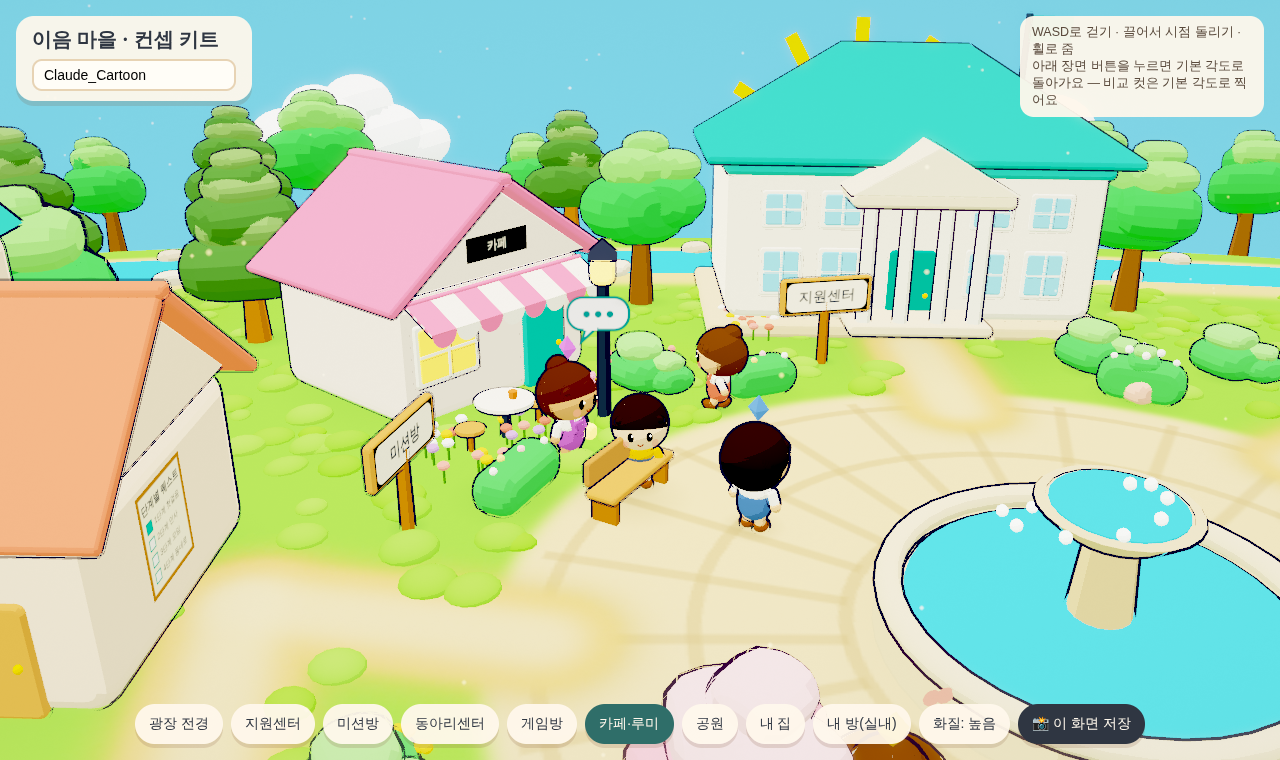
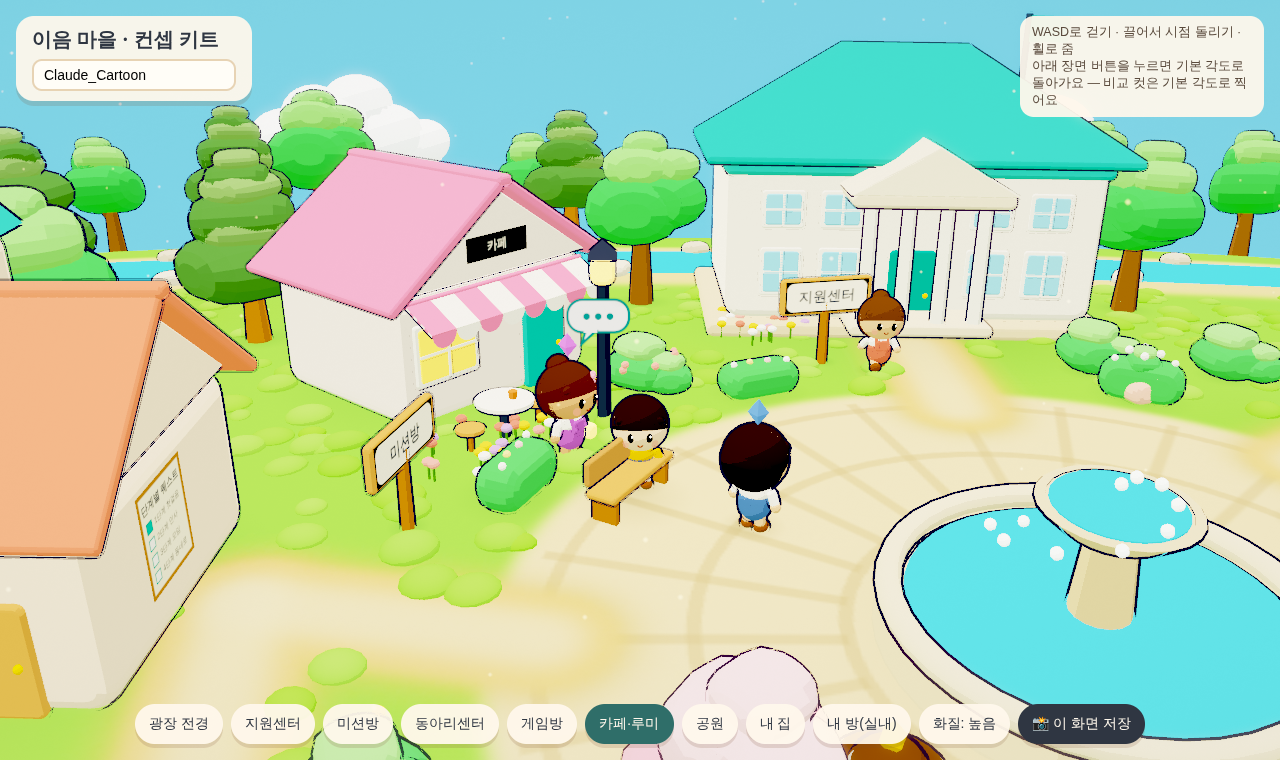
0930: concept_kit/cartoon 버젼 업데이트

diff --git a/social_world/concept_kit/candidates/claude_cartoon/concept_claude_cartoon.html b/social_world/concept_kit/candidates/claude_cartoon/concept_claude_cartoon.html
@@ -540,7 +540,8 @@ var DEMO_AVATAR = { hair: 'short', hairColor: '#3B2A20', outfit: '#E9B44C', acc:
         for (let i = 0; i < 12; i++) { const a = i / 12 * Math.PI * 2, r = new THREE.Mesh(new THREE.PlaneGeometry(1.8, 4.2), sunM); r.position.set(Math.cos(a) * 17, Math.sin(a) * 17, -0.2); r.rotation.z = a - Math.PI / 2; sunDisc.add(r); }
         // 기본 시점에서 보이는 하늘 띠(지평선 아래 약 11~17°) 안에 해와 구름을 둔다
         const az = Math.atan2(0.2, -1), R = 230, skyY = (r, deg) => 11.3 - (r + 20.6) * Math.tan(deg * Math.PI / 180);
-        sunDisc.position.set(Math.sin(az) * R, skyY(R, 12.8), Math.cos(az) * R); sunDisc.scale.setScalar(1.55);
+        // 해: 시점을 땅 가까이 낮췄을 때 지평선 위 약 4~5° 하늘에 보이는 높이
+        sunDisc.position.set(Math.sin(az) * R, 24, Math.cos(az) * R); sunDisc.scale.setScalar(1.1);
         sunDisc.renderOrder = -1; skyDeco.add(sunDisc);
         cloudRing = new THREE.Group(); skyDeco.add(cloudRing);
         const cloudM = new THREE.MeshToonMaterial({ color: '#FFFFFF', gradientMap: TOON, emissive: '#DCEBFF', emissiveIntensity: 0.45, fog: false });
@@ -551,6 +552,14 @@ var DEMO_AVATAR = { hair: 'short', hairColor: '#3B2A20', outfit: '#E9B44C', acc:
             const m = new THREE.Mesh(puff, cloudM); m.position.set(x, y, z); m.scale.set(r, r * 0.85, r); c.add(m); });
           const base = new THREE.Mesh(new THREE.CylinderGeometry(2.5, 2.5, 0.5, 24), cloudM); base.scale.set(1.1, 1, 0.45); base.position.y = -0.7; c.add(base);
           c.scale.setScalar(s); c.position.set(Math.sin(a) * R2, skyY(R2, el2), Math.cos(a) * R2);
+          c.lookAt(0, c.position.y, 0); cloudRing.add(c);
+        }
+        // 시점을 낮췄을 때 지평선 위로 보이는 높은 구름
+        for (let i = 0; i < 9; i++) {
+          const c = new THREE.Group(), a = i / 9 * Math.PI * 2 + 0.35 + (rnd() - 0.5) * 0.3, R3 = 190 + rnd() * 40, s = 6 + rnd() * 3;
+          [[0, 0, 0, 1.3], [1.3, -0.2, 0.2, 1.0], [-1.3, -0.25, -0.1, 1.0], [0.6, 0.6, 0, 0.95], [-0.5, 0.5, 0.2, 0.85], [2.3, -0.45, 0, 0.7], [-2.2, -0.45, 0, 0.7]].forEach(([x, y, z, r]) => {
+            const m = new THREE.Mesh(puff, cloudM); m.position.set(x, y, z); m.scale.set(r, r * 0.85, r); c.add(m); });
+          c.scale.setScalar(s); c.position.set(Math.sin(a) * R3, 4.7 + (R3 + 23) * Math.tan((1.5 + rnd() * 6) * Math.PI / 180), Math.cos(a) * R3);
           c.lookAt(0, c.position.y, 0); cloudRing.add(c);
         }
       }
@@ -1260,7 +1269,7 @@ var DEMO_AVATAR = { hair: 'short', hairColor: '#3B2A20', outfit: '#E9B44C', acc:
     const VIEW0 = { yaw: 0, pitch: 0.5, dist: Math.hypot(13.7, 16.8) * 1.04 };
     const VIEW0R = { yaw: 0, pitch: Math.atan2(8.6, 9.2), dist: Math.hypot(8.6, 9.2) };
     const view = { yaw: 0, pitch: VIEW0.pitch, zoom: 1 }, viewT = { yaw: 0, pitch: VIEW0.pitch, zoom: 1 };
-    const PITCH_MIN = 0.36, PITCH_MAX = 1.12, ROOM_YAW = 0.6;
+    const PITCH_MIN = 0.16, PITCH_MAX = 1.12, ROOM_YAW = 0.6;
     function base() { return mode === 'room' ? VIEW0R : VIEW0; }
     function clampView(v) {
       if (mode === 'room') v.yaw = Math.max(-ROOM_YAW, Math.min(ROOM_YAW, v.yaw));   // 방은 벽이 가리지 않는 만큼만

diff --git a/social_world/concept_kit/candidates/claude_cartoon/socialworld-demo_cartoon.html b/social_world/concept_kit/candidates/claude_cartoon/socialworld-demo_cartoon.html
@@ -880,7 +880,8 @@
         for (let i = 0; i < 12; i++) { const a = i / 12 * Math.PI * 2, r = new THREE.Mesh(new THREE.PlaneGeometry(1.8, 4.2), sunM); r.position.set(Math.cos(a) * 17, Math.sin(a) * 17, -0.2); r.rotation.z = a - Math.PI / 2; sunDisc.add(r); }
         // 기본 시점에서 보이는 하늘 띠(지평선 아래 약 11~17°) 안에 해와 구름을 둔다
         const az = Math.atan2(0.2, -1), R = 230, skyY = (r, deg) => 11.3 - (r + 20.6) * Math.tan(deg * Math.PI / 180);
-        sunDisc.position.set(Math.sin(az) * R, skyY(R, 12.8), Math.cos(az) * R); sunDisc.scale.setScalar(1.55);
+        // 해: 시점을 땅 가까이 낮췄을 때 지평선 위 약 4~5° 하늘에 보이는 높이
+        sunDisc.position.set(Math.sin(az) * R, 24, Math.cos(az) * R); sunDisc.scale.setScalar(1.1);
         sunDisc.renderOrder = -1; skyDeco.add(sunDisc);
         cloudRing = new THREE.Group(); skyDeco.add(cloudRing);
         const cloudM = new THREE.MeshToonMaterial({ color: '#FFFFFF', gradientMap: TOON, emissive: '#DCEBFF', emissiveIntensity: 0.45, fog: false });
@@ -891,6 +892,14 @@
             const m = new THREE.Mesh(puff, cloudM); m.position.set(x, y, z); m.scale.set(r, r * 0.85, r); c.add(m); });
           const base = new THREE.Mesh(new THREE.CylinderGeometry(2.5, 2.5, 0.5, 24), cloudM); base.scale.set(1.1, 1, 0.45); base.position.y = -0.7; c.add(base);
           c.scale.setScalar(s); c.position.set(Math.sin(a) * R2, skyY(R2, el2), Math.cos(a) * R2);
+          c.lookAt(0, c.position.y, 0); cloudRing.add(c);
+        }
+        // 시점을 낮췄을 때 지평선 위로 보이는 높은 구름
+        for (let i = 0; i < 9; i++) {
+          const c = new THREE.Group(), a = i / 9 * Math.PI * 2 + 0.35 + (rnd() - 0.5) * 0.3, R3 = 190 + rnd() * 40, s = 6 + rnd() * 3;
+          [[0, 0, 0, 1.3], [1.3, -0.2, 0.2, 1.0], [-1.3, -0.25, -0.1, 1.0], [0.6, 0.6, 0, 0.95], [-0.5, 0.5, 0.2, 0.85], [2.3, -0.45, 0, 0.7], [-2.2, -0.45, 0, 0.7]].forEach(([x, y, z, r]) => {
+            const m = new THREE.Mesh(puff, cloudM); m.position.set(x, y, z); m.scale.set(r, r * 0.85, r); c.add(m); });
+          c.scale.setScalar(s); c.position.set(Math.sin(a) * R3, 4.7 + (R3 + 23) * Math.tan((1.5 + rnd() * 6) * Math.PI / 180), Math.cos(a) * R3);
           c.lookAt(0, c.position.y, 0); cloudRing.add(c);
         }
       }
@@ -1588,7 +1597,7 @@
     const VIEW0 = { yaw: 0, pitch: 0.5, dist: Math.hypot(13.7, 16.8) * 1.04 };
     const VIEW0R = { yaw: 0, pitch: Math.atan2(8.6, 9.2), dist: Math.hypot(8.6, 9.2) };
     const view = { yaw: 0, pitch: VIEW0.pitch, zoom: 1 }, viewT = { yaw: 0, pitch: VIEW0.pitch, zoom: 1 };
-    const PITCH_MIN = 0.36, PITCH_MAX = 1.12, ROOM_YAW = 0.6;
+    const PITCH_MIN = 0.16, PITCH_MAX = 1.12, ROOM_YAW = 0.6;
     function base() { return mode === 'room' ? VIEW0R : VIEW0; }
     function clampView(v) {
       if (mode === 'room') v.yaw = Math.max(-ROOM_YAW, Math.min(ROOM_YAW, v.yaw));   // 방은 벽이 가리지 않는 만큼만

diff --git a/social_world/concept_kit/candidates/claude_cartoon/README.md b/social_world/concept_kit/candidates/claude_cartoon/README.md
@@ -18,7 +18,10 @@
 - 캔디 톤 선명한 색 — 민트 지원센터 / 코랄 미션방 / 보라 동아리센터 / 오렌지 게임방 / 핑크 카페 / 파랑 내 집, 진한 초록 나무
 - **맑고 푸른 하늘 + 뭉게구름 11개(천천히 흐름) + 만화풍 해(햇살 12줄)**
   - 기본 시점에서 하늘이 보이도록 카메라를 약 29°로 낮추고, 하늘을 가리던 뒤쪽 흙 언덕을 없앰(뒷줄 나무는 땅 위로)
-  - 해·구름은 기본 시점 기준 화면 위쪽에 오도록 배치. 시점을 돌리면 구름은 사방에 있고 해는 북쪽 하늘에 있음
+  - **해**: 조금 작게, 지평선 위 약 4~5° 높이의 북쪽 하늘. 시점을 땅 가까이 낮추면(마우스를 위로 끌기) 하늘에 보임 — 기본 시점에서는 화면 위로 벗어남
+  - **구름**: 기본 시점 하늘 띠에 11개 + 시점을 낮췄을 때 지평선 위로 보이는 높은 구름 9개, 천천히 흐름
+  - 시점을 이전보다 더 낮게(약 9°까지) 내릴 수 있음
+  - `Claude_Cartoon_낮은시점.png`: 가장 낮춘 시점 캡처 3장(광장·지원센터·가까이)
 - 햇빛 세게 + 환경광 낮춰 또렷한 명암
 
 ## 뿌연 느낌 제거
